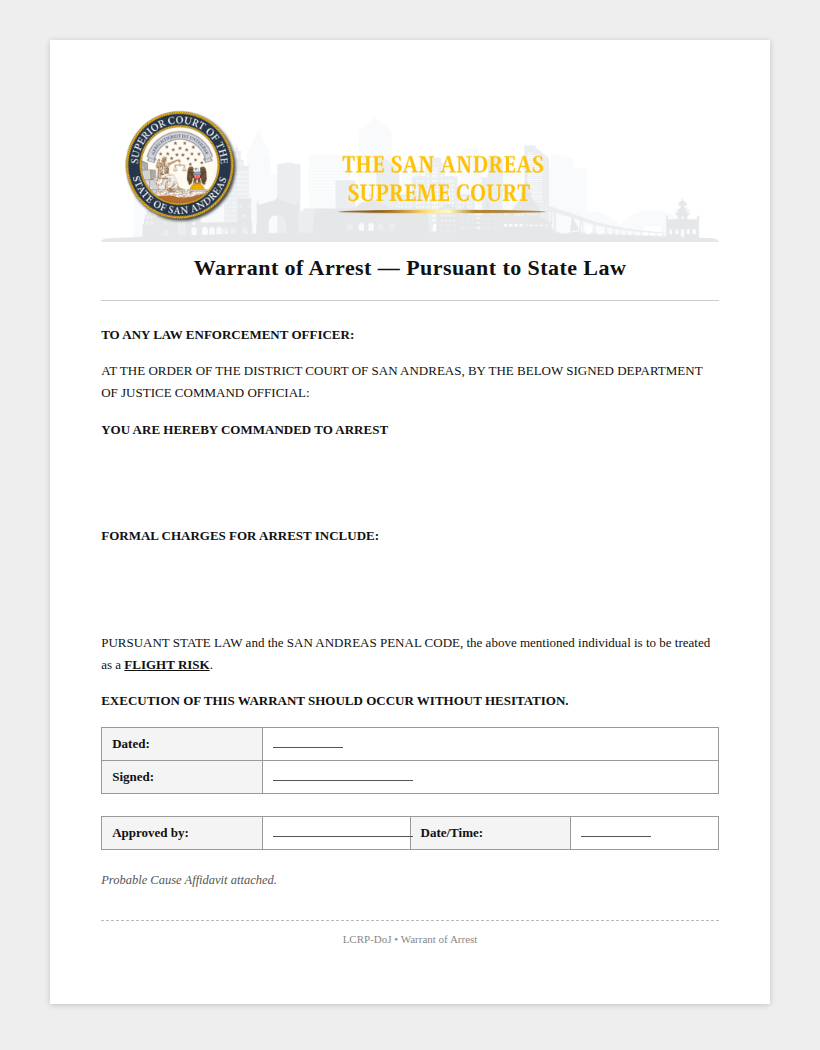
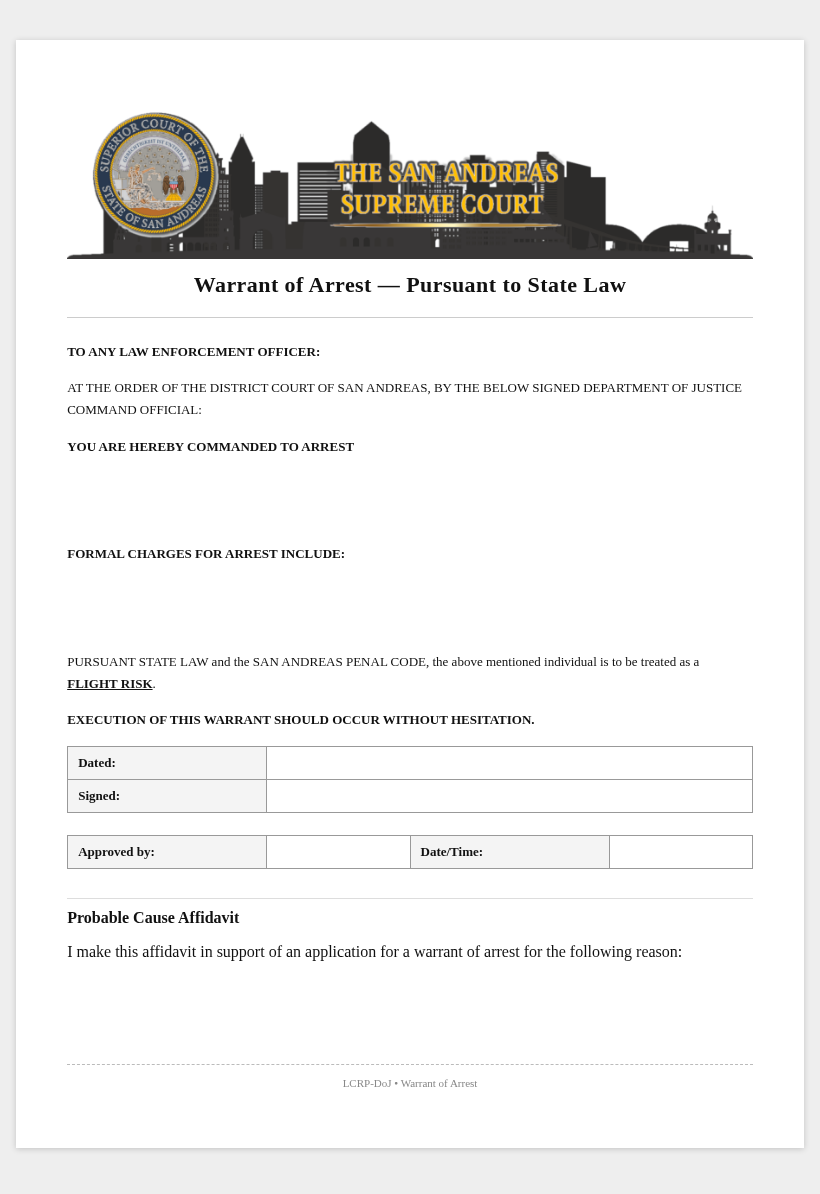
Add probable cause affidavit field to arrest warrant template

diff --git a/templates/arrest_warrant.html b/templates/arrest_warrant.html
@@ -44,7 +44,11 @@
       </tr>
     </table>
 
-    <p class="notice">Probable Cause Affidavit attached.</p>
+    <h2 class="section">Probable Cause Affidavit</h2>
+    <p class="doc-body">
+      I make this affidavit in support of an application for a warrant of arrest for the following reason:<br>
+      <span class="field block">{{affidavit}}</span>
+    </p>
     <p class="meta">LCRP-DoJ &bull; Warrant of Arrest</p>
   </div>
 </body>
